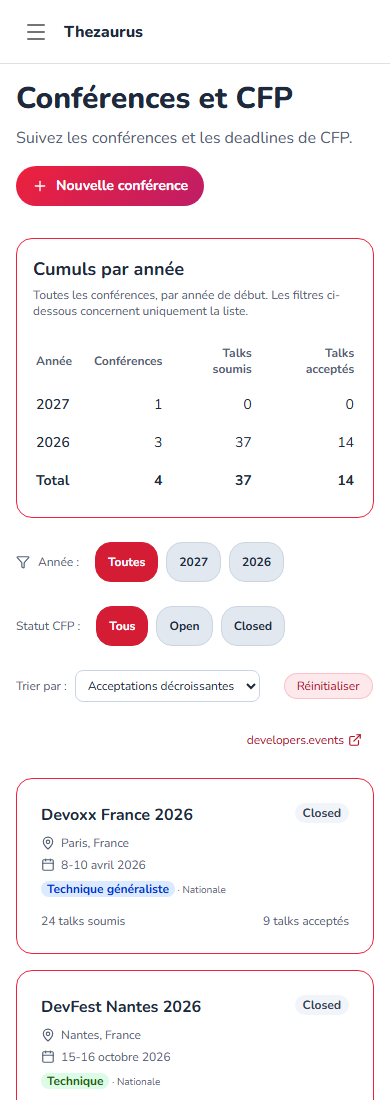
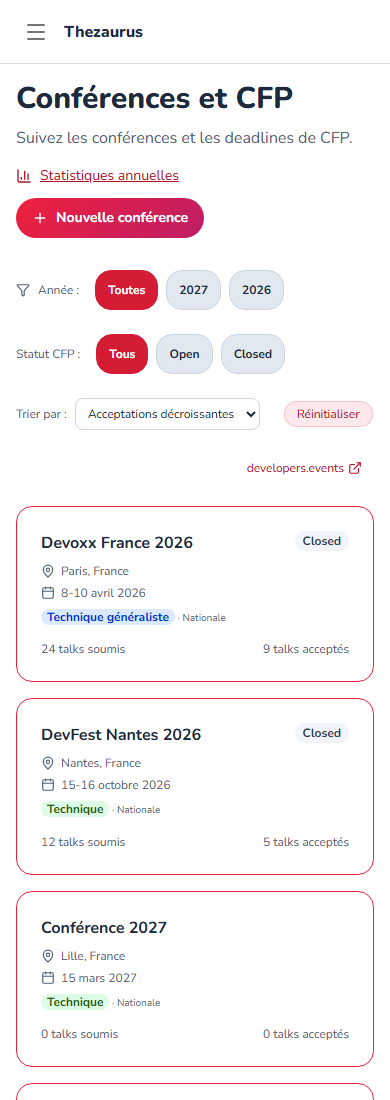
feat(conferences): déplacer les cumuls annuels vers une page dédiée

diff --git a/front/tests/conference-statistics.test.tsx b/front/tests/conference-statistics.test.tsx
@@ -1,6 +1,7 @@
 import { afterEach, expect, it, vi } from "vitest";
 import { fireEvent, render, screen, within } from "@testing-library/react";
 import { ConferenceAnnualStatistics } from "@/features/conferences/ui/ConferenceAnnualStatistics";
+import { ConferenceStatistics } from "@/features/conferences/ui/ConferenceStatistics";
 import { mapBackendToFrontend } from "@/entities/conference/api";
 import { conferenceApi, type ConferenceData } from "@/entities/conference";
 import { ConferencesList } from "@/features/conferences/ui/ConferencesList";
@@ -96,7 +97,7 @@ it("affiche un total nul quand aucune conférence n'est disponible", () => {
   expect(within(row).getAllByRole("cell").map(cell => cell.textContent)).toEqual(["0", "0", "0"]);
 });
 
-it("permet de consulter une ancienne année sans modifier le bilan global ni refaire de requête", () => {
+it("conserve les filtres historiques sans afficher le bilan sur la liste ni refaire de requête", () => {
   const fetch = vi.fn<typeof globalThis.fetch>();
   vi.stubGlobal("fetch", fetch);
   state.conferences = [
@@ -109,7 +110,16 @@ it("permet de consulter une ancienne année sans modifier le bilan global ni ref
   expect(screen.queryByText("Future")).not.toBeInTheDocument();
   fireEvent.click(screen.getByRole("button", { name: /^Closed$/ }));
   expect(screen.queryByText("Historique")).not.toBeInTheDocument();
-  const total = screen.getByRole("row", { name: /^Total / });
-  expect(within(total).getAllByRole("cell").map(cell => cell.textContent)).toEqual(["2", "5", "3"]);
+  expect(screen.queryByRole("region", { name: "Cumuls par année" })).not.toBeInTheDocument();
   expect(fetch).not.toHaveBeenCalled();
+});
+
+it("affiche le bilan sur la page dédiée avec un retour vers la liste", () => {
+  state.conferences = [annualConference("Conférence", "2026-05-01", "2026-05-01", 4, 2)];
+  render(<ConferenceStatistics />);
+  expect(screen.getByRole("heading", { level: 1, name: "Statistiques des conférences" })).toBeInTheDocument();
+  expect(screen.getByRole("region", { name: "Cumuls par année" })).toBeInTheDocument();
+  expect(screen.getByRole("link", { name: "Retour aux conférences" })).toHaveAttribute("href", "/conferences");
+  expect(within(screen.getByRole("row", { name: /^Total / })).getAllByRole("cell").map(cell => cell.textContent))
+    .toEqual(["1", "4", "2"]);
 });

diff --git a/front/features/conferences/ui/Conferences.tsx b/front/features/conferences/ui/Conferences.tsx
@@ -5,7 +5,8 @@ import { Suspense, useState } from "react";
 import { ConferencesListSkeleton } from "./ConferencesSkeleton";
 import { ConferencesList } from "./ConferencesList";
 
-import { Plus } from "lucide-react";
+import { BarChart3, Plus } from "lucide-react";
+import Link from "next/link";
 import { useConferencesMutations } from "../model/useConferencesMutations";
 import { ConferenceData } from "@/entities/conference";
 import dynamic from "next/dynamic";
@@ -33,12 +34,18 @@ export function Conferences() {
   return (
     <div className="p-4 sm:p-6 lg:p-8">
       <PageHeader title="Conférences et CFP" subtitle={<>Suivez les conférences et les deadlines de CFP.</>} action={
-        <CreateButton
-          onClick={() => setOpen(true)}
-        >
-          <Plus size={16} />
-          Nouvelle conférence
-        </CreateButton>
+        <div className="flex flex-wrap items-center gap-3">
+          <Link href="/conferences/statistics" className="inline-flex items-center gap-2 text-sm text-link hover:underline">
+            <BarChart3 size={16} />
+            Statistiques annuelles
+          </Link>
+          <CreateButton
+            onClick={() => setOpen(true)}
+          >
+            <Plus size={16} />
+            Nouvelle conférence
+          </CreateButton>
+        </div>
       } />
 
       <Suspense fallback={<ConferencesListSkeleton />}>

diff --git a/front/features/conferences/ui/ConferenceStatistics.tsx b/front/features/conferences/ui/ConferenceStatistics.tsx
@@ -1,0 +1,35 @@
+"use client";
+
+import Link from "next/link";
+import { Suspense } from "react";
+import { ArrowLeft } from "lucide-react";
+import { DataErrorBoundary, PageHeader, Surface } from "@/shared/ui";
+import { useConferences } from "../model";
+import { ConferenceAnnualStatistics } from "./ConferenceAnnualStatistics";
+
+function StatisticsContent() {
+  const { conferences } = useConferences();
+  return <ConferenceAnnualStatistics conferences={conferences} />;
+}
+
+export function ConferenceStatistics() {
+  return (
+    <div className="p-4 sm:p-6 lg:p-8">
+      <PageHeader
+        title="Statistiques des conférences"
+        subtitle="Retrouvez les soumissions et les acceptations par année de conférence."
+        action={
+          <Link href="/conferences" className="inline-flex items-center gap-2 text-sm text-link hover:underline">
+            <ArrowLeft size={16} />
+            Retour aux conférences
+          </Link>
+        }
+      />
+      <Suspense fallback={<Surface className="p-6" role="status">Chargement des statistiques…</Surface>}>
+        <DataErrorBoundary>
+          <StatisticsContent />
+        </DataErrorBoundary>
+      </Suspense>
+    </div>
+  );
+}

diff --git a/front/features/conferences/ui/ConferencesList.tsx b/front/features/conferences/ui/ConferencesList.tsx
@@ -11,7 +11,6 @@ import { StatusTag, TypeTag } from "@/features/conferences/ui";
 import { FilterChip, Surface } from "@/shared/ui";
 import { useState } from "react";
 import dayjs from "dayjs";
-import { ConferenceAnnualStatistics } from "./ConferenceAnnualStatistics";
 import {
   MapPin,
   Calendar,
@@ -55,7 +54,6 @@ export function ConferencesList() {
 
   return (
     <div className="flex flex-col gap-6">
-      <ConferenceAnnualStatistics conferences={conferences} />
       <div className="flex items-center gap-6 flex-wrap">
         <div className="flex items-center gap-2 flex-wrap">
           <Funnel size={14} className="text-text-muted shrink-0" />

diff --git a/front/features/conferences/ui/ConferenceAnnualStatistics.tsx b/front/features/conferences/ui/ConferenceAnnualStatistics.tsx
@@ -29,7 +29,7 @@ export function ConferenceAnnualStatistics({ conferences }: { conferences: reado
       <Surface className="p-4 sm:p-6">
         <h2 id="conference-annual-statistics" className="font-bold text-lg text-text">Cumuls par année</h2>
         <p className="mt-1 mb-4 text-xs text-text-muted">
-          Toutes les conférences, par année de début. Les filtres ci-dessous concernent uniquement la liste.
+          Toutes les conférences, regroupées par année de début.
         </p>
         <div className="overflow-x-auto">
           <table className="w-full text-sm text-text">

diff --git a/front/app/conferences/statistics/page.tsx b/front/app/conferences/statistics/page.tsx
@@ -1,0 +1,11 @@
+import type { Metadata } from "next";
+import { ConferenceStatistics } from "@/features/conferences";
+
+export const metadata: Metadata = {
+  title: "Statistiques des conférences",
+  description: "Cumuls annuels des soumissions et des acceptations des conférences.",
+};
+
+export default function ConferenceStatisticsPage() {
+  return <ConferenceStatistics />;
+}

diff --git a/front/features/conferences/index.ts b/front/features/conferences/index.ts
@@ -1,1 +1,2 @@
 export { Conferences } from "./ui";
+export { ConferenceStatistics } from "./ui/ConferenceStatistics";

diff --git a/docs/ConferenceStatistics.md b/docs/ConferenceStatistics.md
@@ -13,11 +13,15 @@ rétablit aussi l'ordre initial.
 
 ## Cumuls annuels
 
-Le tableau « Cumuls par année » additionne les compteurs de toutes les conférences du catalogue,
+La page dédiée `/conferences/statistics`, accessible via « Statistiques annuelles » depuis la liste,
+présente le tableau « Cumuls par année ». Un lien permet de revenir aux conférences.
+La liste conserve uniquement ses cartes, filtres et tri, sans tableau de synthèse.
+Le tableau additionne les compteurs de toutes les conférences du catalogue,
 par année de début, sans requête ni compteur persisté supplémentaire. Une conférence chevauchant
 deux années n'est comptée qu'une fois. Les conférences sans année connue sont regroupées sur une
 ligne séparée ; les années présentes avec zéro talk restent affichées. Un total général inclut
-aussi les conférences sans date. Le tableau n'est pas affecté par les filtres ou le tri de la liste.
+aussi les conférences sans date. Les deux pages partagent le même cache du catalogue ; naviguer
+entre elles tant que ce cache est frais ne relit pas les données du backend.
 
 Le filtre de la liste propose les années disponibles, y compris les années passées, en plus de
 l'année courante et de la suivante. Il permet de consulter les conférences d'une année du bilan.
@@ -150,11 +154,14 @@ Aucun code de l'interface n'a été modifié pour ces captures.
 - [Bureau, 1440 × 1000](screenshots/issue-196/conferences-desktop.png).
 - [Mobile, 390 × 1100](screenshots/issue-196/conferences-mobile.png).
 - [Filtre 2027 et compteurs à zéro](screenshots/issue-196/conferences-zero-filter.png).
+- [Statistiques annuelles, bureau](screenshots/issue-196/statistics-desktop.png).
+- [Statistiques annuelles, mobile](screenshots/issue-196/statistics-mobile.png).
 
 Vérifications automatisées de capture : compteurs pluriels et singuliers visibles, filtre de
 l'année fonctionnel, zéro visible, absence de débordement horizontal en mobile et exactement
 un appel `/conferences`, sans nouvel appel lors des filtres. La liste et les sélecteurs partagent
-désormais la même entrée de cache ; les deux totaux sont toujours présents dans le catalogue.
+la même entrée de cache ; les deux totaux sont toujours présents dans le catalogue. Le parcours
+liste → statistiques → liste est vérifié avec un seul appel backend et sans débordement horizontal.
 
 Références : [facturation Firestore](https://firebase.google.com/docs/firestore/pricing),
 [agrégations Firestore](https://firebase.google.com/docs/firestore/query-data/aggregation-queries).
